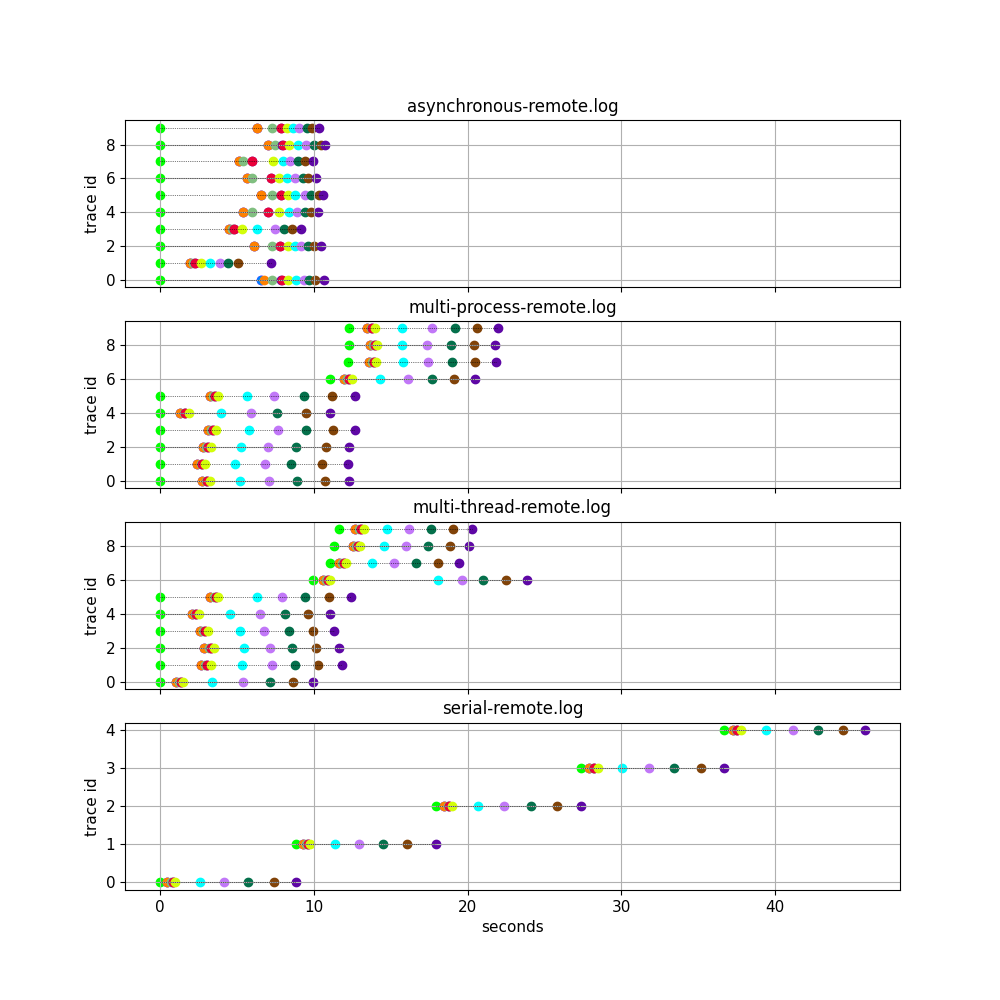
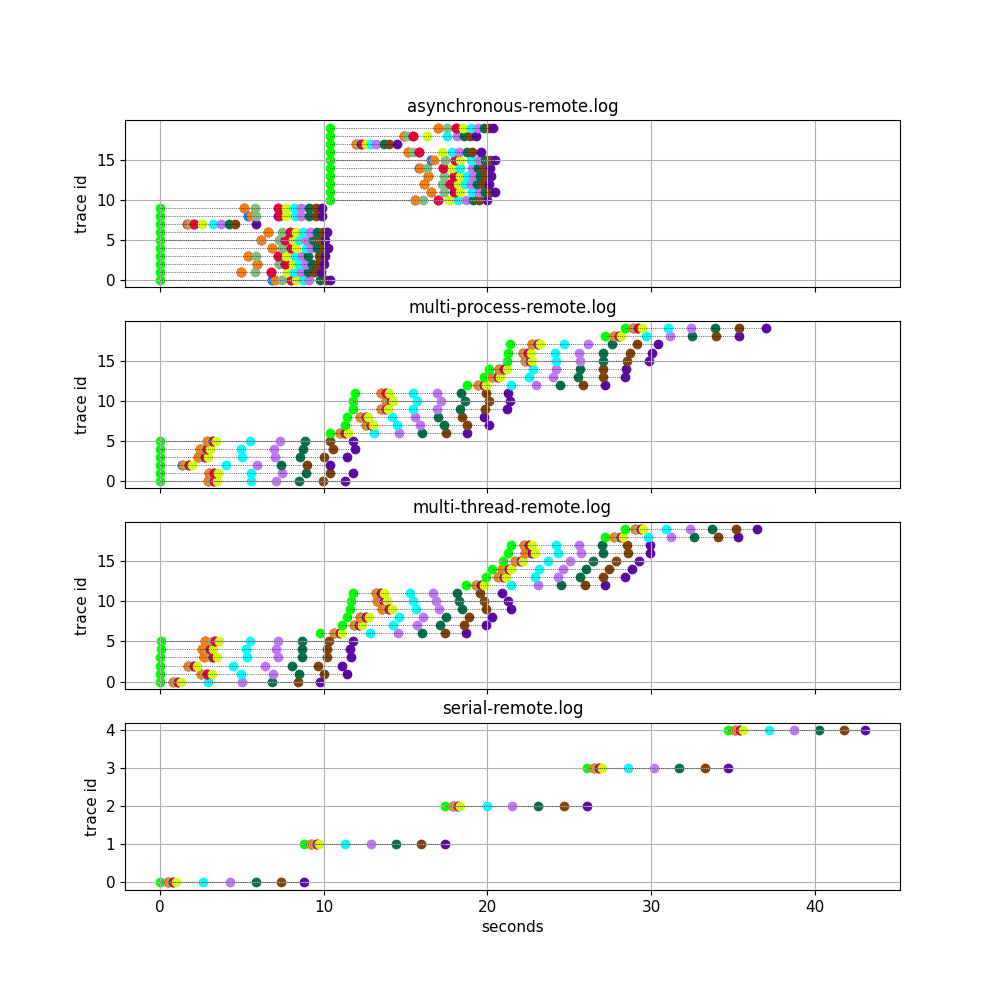
add batching for tasks to prevent timeout errors on image download

diff --git a/src/mixed_io_cpu_task/commands/asynchronous.py b/src/mixed_io_cpu_task/commands/asynchronous.py
@@ -6,7 +6,9 @@ import time
 import PIL
 import click
 import numpy as np
-from tqdm import trange
+from gcloud.aio.storage import Storage
+from more_itertools import batched
+from tqdm.asyncio import tqdm
 
 from mixed_io_cpu_task.cropping import crop_with_pil_async
 from mixed_io_cpu_task.io_utils import (
@@ -24,20 +26,22 @@ from mixed_io_cpu_task.logging_utils import configure_logger
 @click.argument("output_dir", type=click.Path(path_type=str))
 @click.option("--num-repeats", "-r", default=1, help="Number of repeats")
 @click.option("--remove", "-rm", is_flag=True, help="Remove output dir before running")
+@click.option("--batch-size", "-b", default=10, help="Batch size")
 def asynchronous(
     input_image: str,
     crops: str,
     output_dir: str,
     num_repeats: int,
     remove: bool,
+    batch_size: int,
 ):
     loop = asyncio.get_event_loop()
     return loop.run_until_complete(
-        _async_main(crops, input_image, num_repeats, output_dir, remove)
+        _async_main(crops, input_image, num_repeats, output_dir, remove, batch_size)
     )
 
 
-async def _async_main(crops, input_image, num_repeats, output_dir, remove):
+async def _async_main(crops, input_image, num_repeats, output_dir, remove, batch_size):
     # configure logger
     logging.basicConfig()
     logger = logging.getLogger("default")
@@ -62,15 +66,33 @@ async def _async_main(crops, input_image, num_repeats, output_dir, remove):
         pathlib.Path(output_dir).mkdir(exist_ok=True, parents=True)
     # start benchmark
     start = time.perf_counter()
-    tasks = []
-    for i in trange(num_repeats):
-        task = _process_task_async(crops, i, input_image, output_dir)
-        tasks.append(task)
-    await asyncio.gather(*tasks)
+    inputs = [(crops, i, input_image, output_dir) for i in range(num_repeats)]
+    for batch_input in batched(inputs, batch_size):
+        tasks = []
+        for task_input in batch_input:
+            task = _process_task_async(*task_input)
+            tasks.append(task)
+        for task in tqdm(asyncio.as_completed(tasks), total=batch_size, leave=True):
+            await task
+
+    # await asyncio.gather(*tasks)
     elapsed = time.perf_counter() - start
     logger.info(
         f"Elapsed {elapsed:.2f} seconds, average {num_repeats / elapsed:.2f} img/s"
     )
+
+    # validate the output dir contains the expected number of files
+    crops_per_image = 50  # TODO read from file
+    expected_files = num_repeats * crops_per_image
+    if not output_dir.startswith("gs://"):
+        assert len(list(pathlib.Path(output_dir).glob("*.jpg"))) == expected_files
+    else:
+        async with Storage() as client:
+            bucket_name = output_dir.split("/")[2]
+            bucket = client.get_bucket(bucket_name)
+
+            blobs = await bucket.list_blobs(prefix="/".join(output_dir.split("/")[3:]))
+            assert len(blobs) == expected_files
 
 
 async def _process_task_async(crops, i, input_image, output_dir):

diff --git a/src/mixed_io_cpu_task/cropping.py b/src/mixed_io_cpu_task/cropping.py
@@ -52,8 +52,8 @@ async def crop_with_pil_async(
     for crop in crops:
         buffer = BytesIO()
         crop.save(buffer, format="JPEG")
-        await asyncio.sleep(0)
         buffer.seek(0)
         buffers.append(buffer)
+        await asyncio.sleep(0)
     logger.debug(f"Saved {len(buffers)} images", extra={"trace_id": trace_id})
     return buffers

diff --git a/src/mixed_io_cpu_task/io_utils.py b/src/mixed_io_cpu_task/io_utils.py
@@ -9,6 +9,7 @@ import os
 from google.cloud import storage
 
 from gcloud.aio.storage import Storage, Blob
+from aiohttp import ClientSession as Session
 
 logger = logging.getLogger("default")
 storage_client = storage.Client()
